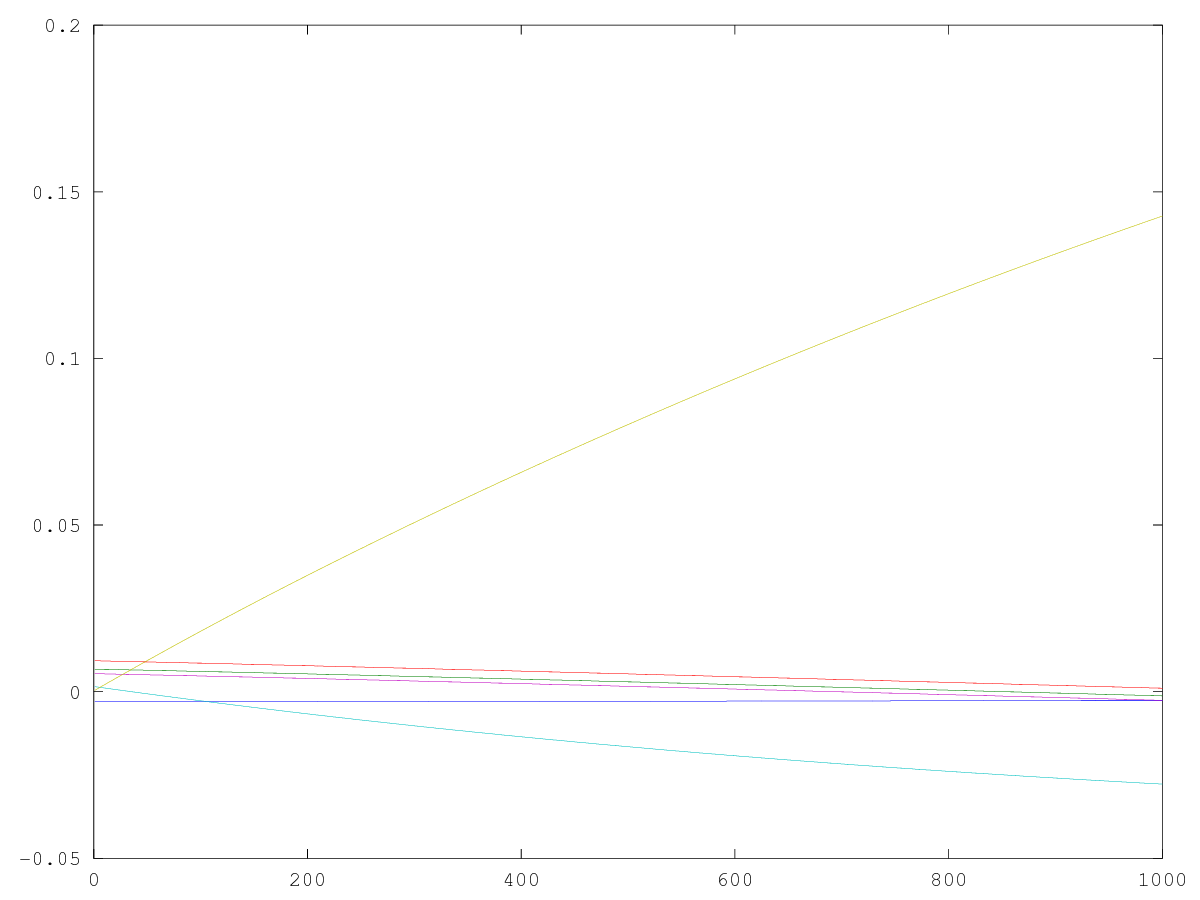
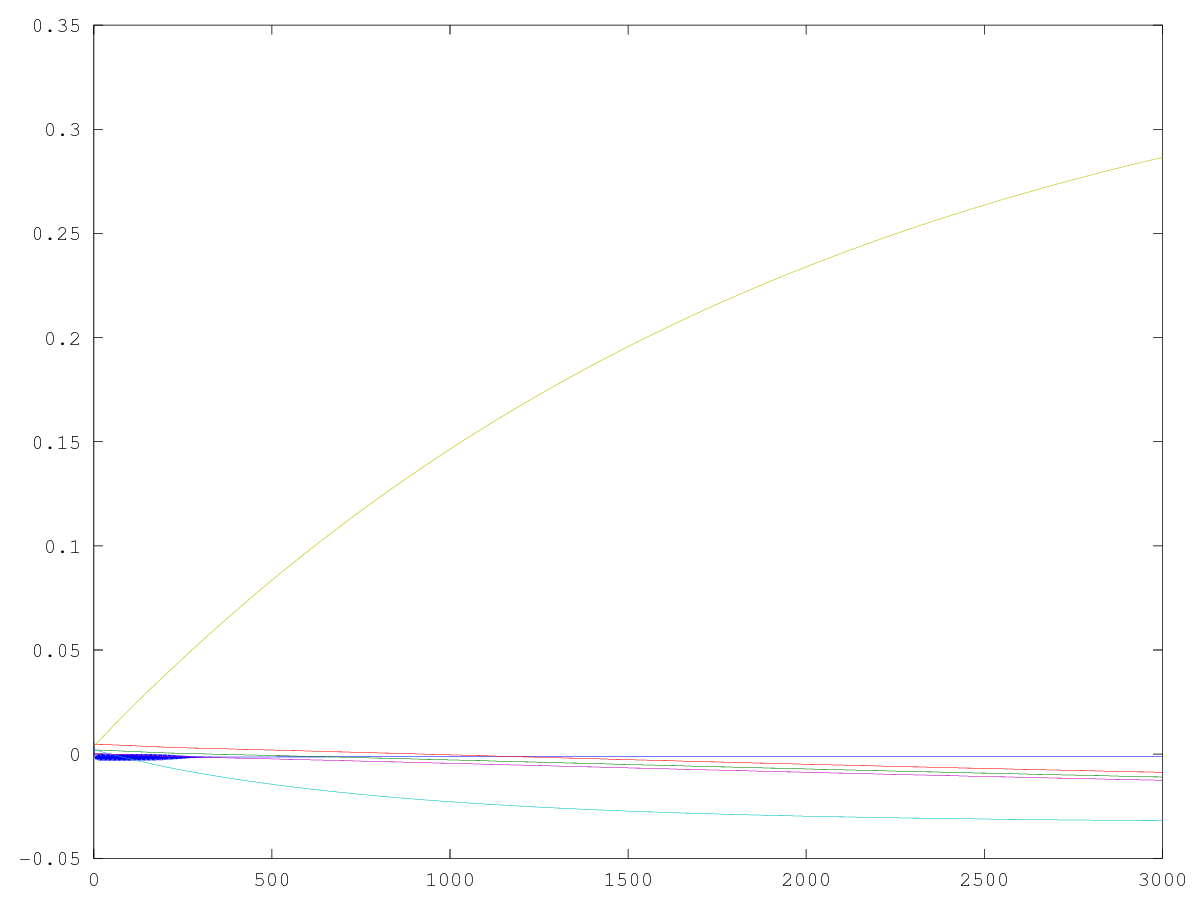
TREC big large gamma experiment

diff --git a/octave-src/sample/TREC-BIG/GAMMA=LARGE/model.m b/octave-src/sample/TREC-BIG/GAMMA=LARGE/model.m
@@ -1,13 +1,13 @@
-# Created by Octave 4.0.0, Tue Jul 24 19:00:43 2018 UTC <ubuntu@trec-big>
+# Created by Octave 4.0.0, Wed Jul 25 22:04:15 2018 UTC <ubuntu@trec-big>
 # name: omega
 # type: matrix
 # rows: 6
 # columns: 1
- -0.0026733567307649
- -0.001264931874453746
- 0.001041236265585611
- -0.02773083899762714
- -0.002601442276333014
- 0.1427094723397574
+ -0.0009663927790708588
+ -0.01096387859670333
+ -0.00870323867213452
+ -0.03194679338428245
+ -0.01254741883394695
+ 0.286487159454434
 
 

diff --git a/octave-src/src/globals.m b/octave-src/src/globals.m
@@ -1,7 +1,7 @@
 % global variables declaration
 
 % number of training iterations
-global T = 1000;
+global T = 3000;
 
 % learning rate
 global e = 0.00001;
